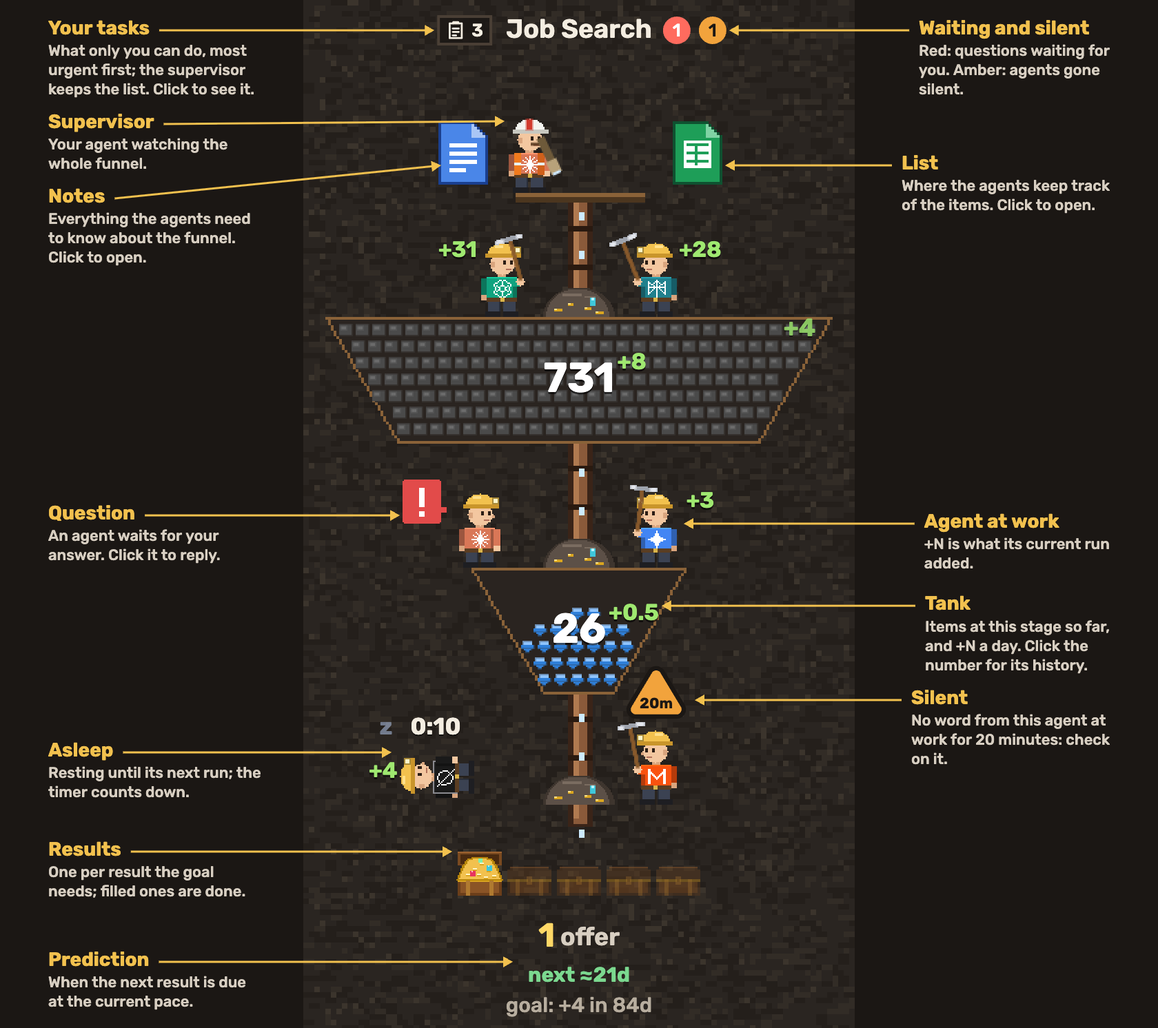
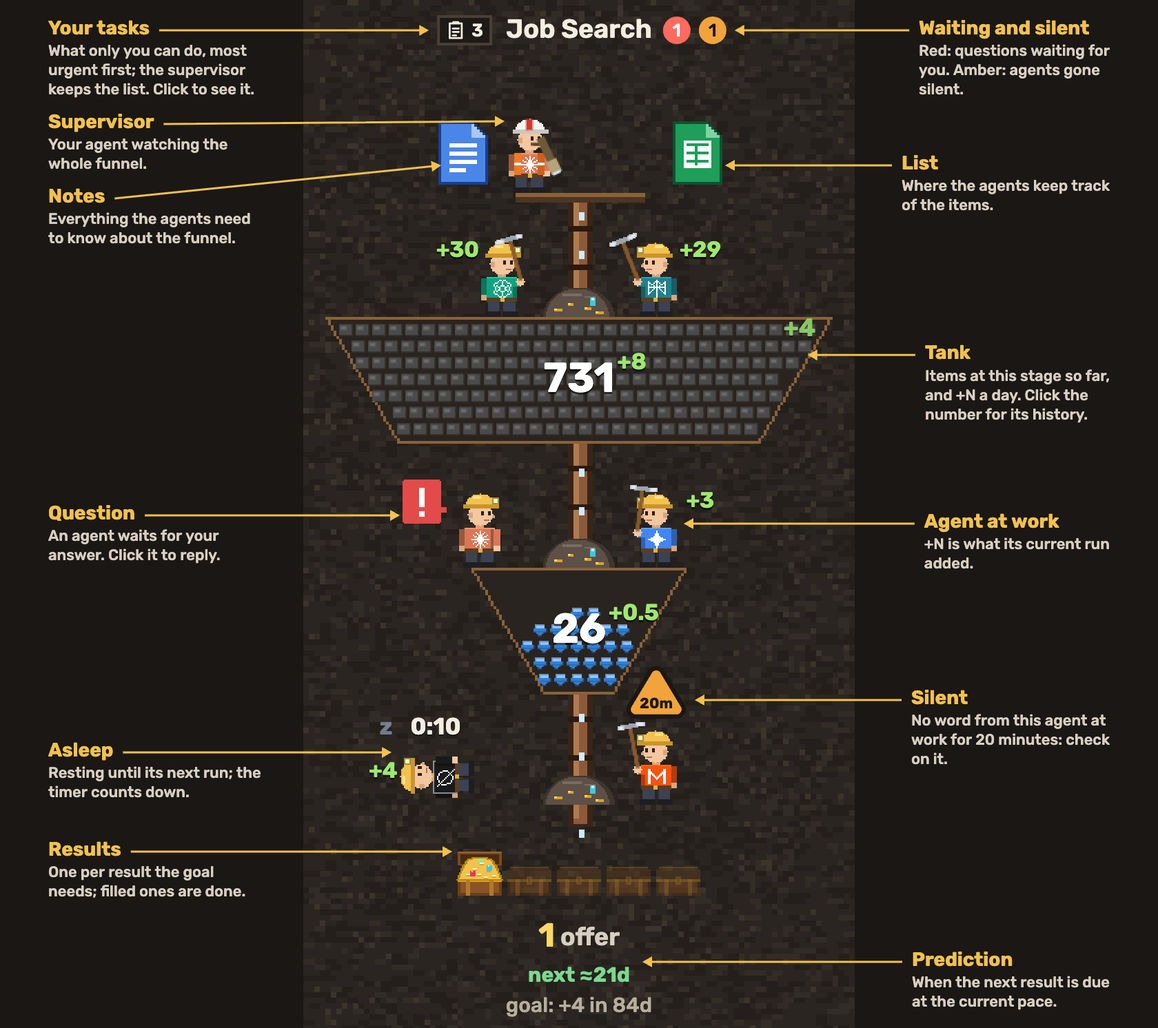
Explained funnel: the top labels' text under their headings and arrows short of the badges; tank (first one) and prediction on the right; notes and list without 'click to open'; the landing picture larger, wider than the text

diff --git a/src/i18n.js b/src/i18n.js
@@ -6,12 +6,12 @@
 // Static pages mark text with data-i18n="key" (text), data-i18n-html="key" (text with links) and
 // data-i18n-attr="placeholder:key; title:key"; scripts call t(key, …args).
 
-import es from './lang/es.js?v=44d6396f';
-import vi from './lang/vi.js?v=44d6396f';
-import ja from './lang/ja.js?v=44d6396f';
-import pt from './lang/pt.js?v=44d6396f';
-import tr from './lang/tr.js?v=44d6396f';
-import ko from './lang/ko.js?v=44d6396f';
+import es from './lang/es.js?v=9415e8eb';
+import vi from './lang/vi.js?v=9415e8eb';
+import ja from './lang/ja.js?v=9415e8eb';
+import pt from './lang/pt.js?v=9415e8eb';
+import tr from './lang/tr.js?v=9415e8eb';
+import ko from './lang/ko.js?v=9415e8eb';
 
 export const LANGS = { en: 'English', ru: 'Русский', es: 'Español', pt: 'Português', zh: '中文', ja: '日本語', ko: '한국어', tr: 'Türkçe', th: 'ไทย', vi: 'Tiếng Việt' };
 export const SHORT = { en: 'EN', ru: 'RU', es: 'ES', pt: 'PT', zh: '中文', ja: 'JA', ko: 'KO', tr: 'TR', th: 'ไทย', vi: 'VI' };
@@ -123,17 +123,17 @@ const STRINGS = {
 
   // The landing page's funnel: what each part is
   'guide.tasks.h': L('Your tasks', 'Ваши дела', '你的待办', 'งานของคุณ'),
-  'guide.tasks': L('What only you can do, most urgent first; the supervisor keeps the list. Click to see it.', 'То, что можете сделать только вы, от самого срочного; список ведёт супервайзер. Нажмите, чтобы посмотреть.', '只有你能做的事，最紧急的在前；清单由主管维护。点击查看。', 'สิ่งที่มีแค่คุณทำได้ เรียงจากเร่งด่วนที่สุด ผู้ดูแลเป็นคนดูแลรายการ คลิกเพื่อดู'),
+  'guide.tasks': L('What only you can do, most urgent first.', 'Что можете сделать только вы, по срочности.', '只有你能做的事，按紧急程度排列。', 'สิ่งที่มีแค่คุณทำได้ เรียงตามความเร่งด่วน'),
   'guide.notes.h': L('Notes', 'Заметки', '笔记', 'โน้ต'),
-  'guide.notes': L('Everything the agents need to know about the funnel. Click to open.', 'Всё, что агентам нужно знать о воронке. Нажмите, чтобы открыть.', '智能体需要知道的关于漏斗的一切。点击打开。', 'ทุกอย่างที่เอเจนต์ต้องรู้เกี่ยวกับกรวย คลิกเพื่อเปิด'),
+  'guide.notes': L('Everything the agents need to know about the funnel.', 'Всё, что агентам нужно знать о воронке.', '智能体需要知道的关于漏斗的一切。', 'ทุกอย่างที่เอเจนต์ต้องรู้เกี่ยวกับกรวย'),
   'guide.list.h': L('List', 'Список', '清单', 'รายการ'),
-  'guide.list': L('Where the agents keep track of the items. Click to open.', 'Где агенты ведут учёт. Нажмите, чтобы открыть.', '智能体记录条目的地方。点击打开。', 'ที่ที่เอเจนต์บันทึกรายการ คลิกเพื่อเปิด'),
+  'guide.list': L('Where the agents keep track of the items.', 'Где агенты ведут учёт.', '智能体记录条目的地方。', 'ที่ที่เอเจนต์บันทึกรายการ'),
   'guide.badges.h': L('Waiting and silent', 'Ждут и молчат', '等待与失联', 'รอและเงียบ'),
-  'guide.badges': L('Red: questions waiting for you. Amber: agents gone silent.', 'Красный: вопросы, которые ждут вашего ответа. Жёлтый: агенты, которые замолчали.', '红色：等你回答的问题。黄色：失联的智能体。', 'สีแดง: คำถามที่รอคุณ สีเหลือง: เอเจนต์ที่เงียบไป'),
+  'guide.badges': L('Red: questions for you. Amber: agents gone silent.', 'Красный — вопросы к вам, жёлтый — агенты молчат.', '红色：给你的问题。黄色：失联的智能体。', 'แดง: คำถามถึงคุณ เหลือง: เอเจนต์ที่เงียบ'),
   'guide.silent.h': L('Silent', 'Молчит', '失联', 'เงียบ'),
   'guide.silent': L('No word from this agent at work for 20 minutes: check on it.', 'Агент за работой молчит уже 20 минут: проверьте его.', '这个工作中的智能体已 20 分钟没有消息：去看看它。', 'เอเจนต์ที่กำลังทำงานเงียบไป 20 นาทีแล้ว: ลองตรวจดู'),
   'guide.supervisor.h': L('Supervisor', 'Супервайзер', '主管', 'ผู้ดูแล'),
-  'guide.supervisor': L('Your agent watching the whole funnel.', 'Ваш агент, следящий за всей воронкой.', '你的智能体，盯着整个漏斗。', 'เอเจนต์ของคุณที่คอยดูทั้งกรวย'),
+  'guide.supervisor': L('Your agent over the whole funnel.', 'Ваш агент над всей воронкой.', '统管整个漏斗的你的智能体。', 'เอเจนต์ของคุณที่ดูแลทั้งกรวย'),
   'guide.tank.h': L('Tank', 'Бак', '储罐', 'ถัง'),
   'guide.tank': L('Items at this stage so far, and +N a day. Click the number for its history.', 'Сколько дошло до этапа и +N в день. Нажмите на число — история.', '到达这个阶段的数量和每天 +N。点击数字查看历史。', 'จำนวนที่ถึงขั้นนี้และ +N ต่อวัน คลิกตัวเลขเพื่อดูประวัติ'),
   'guide.question.h': L('Question', 'Вопрос', '问题', 'คำถาม'),

diff --git a/index.html b/index.html
@@ -23,7 +23,7 @@
   <link rel="preconnect" href="https://fonts.googleapis.com">
   <link rel="preconnect" href="https://fonts.gstatic.com" crossorigin>
   <link href="https://fonts.googleapis.com/css2?family=Tiny5&family=Rubik:wght@400;500;600;700&family=Noto+Sans+SC:wght@400;500;700&family=Noto+Sans+Thai:wght@400;500;700&family=Be+Vietnam+Pro:wght@400;500;600;700&family=Noto+Sans+JP:wght@400;500;700&family=Noto+Sans+KR:wght@400;500;700&display=swap" rel="stylesheet">
-  <link rel="stylesheet" href="site.css?v=44d6396f">
+  <link rel="stylesheet" href="site.css?v=9415e8eb">
 </head>
 <body>
   <div class="wrap">
@@ -48,18 +48,18 @@
            at its part's height (--y) with an arrow to it (--x), as fractions of the picture. -->
       <div class="guide">
         <img src="docs/img/funnel-plain.png" alt="One goal funnel of the demo" data-i18n-attr="alt:home.shotAlt" width="800" height="1368">
-        <div class="note up" style="--x:0.243;--y:0.029"><b data-i18n="guide.tasks.h">Your tasks</b><span data-i18n="guide.tasks">What only you can do, most urgent first; the supervisor keeps the list. Click to see it.</span></div>
-        <div class="note r up" style="--x:0.767;--y:0.029"><b data-i18n="guide.badges.h">Waiting and silent</b><span data-i18n="guide.badges">Red: questions waiting for you. Amber: agents gone silent.</span></div>
-        <div class="note up" style="--x:0.37;--y:0.118"><b data-i18n="guide.supervisor.h">Supervisor</b><span data-i18n="guide.supervisor">Your agent watching the whole funnel.</span></div>
-        <div class="note" style="--x:0.255;--y:0.161"><b data-i18n="guide.notes.h">Notes</b><span data-i18n="guide.notes">Everything the agents need to know about the funnel. Click to open.</span></div>
-        <div class="note r" style="--x:0.76;--y:0.161"><b data-i18n="guide.list.h">List</b><span data-i18n="guide.list">Where the agents keep track of the items. Click to open.</span></div>
+        <div class="note" style="--x:0.225;--y:0.029"><b data-i18n="guide.tasks.h">Your tasks</b><span data-i18n="guide.tasks">What only you can do, most urgent first.</span></div>
+        <div class="note r" style="--x:0.785;--y:0.029"><b data-i18n="guide.badges.h">Waiting and silent</b><span data-i18n="guide.badges">Red: questions for you. Amber: agents gone silent.</span></div>
+        <div class="note" style="--x:0.37;--y:0.118"><b data-i18n="guide.supervisor.h">Supervisor</b><span data-i18n="guide.supervisor">Your agent over the whole funnel.</span></div>
+        <div class="note" style="--x:0.255;--y:0.175"><b data-i18n="guide.notes.h">Notes</b><span data-i18n="guide.notes">Everything the agents need to know about the funnel.</span></div>
+        <div class="note r" style="--x:0.76;--y:0.161"><b data-i18n="guide.list.h">List</b><span data-i18n="guide.list">Where the agents keep track of the items.</span></div>
         <div class="note" style="--x:0.18;--y:0.501"><b data-i18n="guide.question.h">Question</b><span data-i18n="guide.question">An agent waits for your answer. Click it to reply.</span></div>
         <div class="note r" style="--x:0.685;--y:0.509"><b data-i18n="guide.work.h">Agent at work</b><span data-i18n="guide.work">+N is what its current run added.</span></div>
-        <div class="note r" style="--x:0.645;--y:0.589"><b data-i18n="guide.tank.h">Tank</b><span data-i18n="guide.tank">Items at this stage so far, and +N a day. Click the number for its history.</span></div>
+        <div class="note r" style="--x:0.91;--y:0.345"><b data-i18n="guide.tank.h">Tank</b><span data-i18n="guide.tank">Items at this stage so far, and +N a day. Click the number for its history.</span></div>
         <div class="note r" style="--x:0.705;--y:0.681"><b data-i18n="guide.silent.h">Silent</b><span data-i18n="guide.silent">No word from this agent at work for 20 minutes: check on it.</span></div>
         <div class="note" style="--x:0.165;--y:0.732"><b data-i18n="guide.asleep.h">Asleep</b><span data-i18n="guide.asleep">Resting until its next run; the timer counts down.</span></div>
         <div class="note" style="--x:0.275;--y:0.828"><b data-i18n="guide.results.h">Results</b><span data-i18n="guide.results">One per result the goal needs; filled ones are done.</span></div>
-        <div class="note" style="--x:0.385;--y:0.936"><b data-i18n="guide.prediction.h">Prediction</b><span data-i18n="guide.prediction">When the next result is due at the current pace.</span></div>
+        <div class="note r" style="--x:0.61;--y:0.936"><b data-i18n="guide.prediction.h">Prediction</b><span data-i18n="guide.prediction">When the next result is due at the current pace.</span></div>
       </div>
     </section>
 
@@ -83,7 +83,7 @@
       <span><a href="https://github.com/oponfil/goalcraft/blob/main/docs/MCP.md" target="_blank" rel="noopener" data-i18n="footer.docs">Docs</a> · <a href="deck/" target="_blank" rel="noopener" data-i18n="footer.deck">Pitch deck</a> · <a href="privacy/" data-i18n="footer.privacy">Privacy</a> · <a href="terms/" data-i18n="footer.terms">Terms</a> · <a href="contact/" data-i18n="footer.contact">Contact</a> · <a class="gh" href="https://github.com/oponfil/goalcraft" target="_blank" rel="noopener" aria-label="GitHub" title="GitHub"><svg viewBox="0 0 16 16" width="16" height="16" aria-hidden="true"><path fill="currentColor" d="M8 0C3.58 0 0 3.58 0 8c0 3.54 2.29 6.53 5.47 7.59.4.07.55-.17.55-.38 0-.19-.01-.82-.01-1.49-2.01.37-2.53-.49-2.69-.94-.09-.23-.48-.94-.82-1.13-.28-.15-.68-.52-.01-.53.63-.01 1.08.58 1.23.82.72 1.21 1.87.87 2.33.66.07-.52.28-.87.51-1.07-1.78-.2-3.64-.89-3.64-3.95 0-.87.31-1.59.82-2.15-.08-.2-.36-1.02.08-2.12 0 0 .67-.21 2.2.82.64-.18 1.32-.27 2-.27.68 0 1.36.09 2 .27 1.53-1.04 2.2-.82 2.2-.82.44 1.1.16 1.92.08 2.12.51.56.82 1.27.82 2.15 0 3.07-1.87 3.75-3.65 3.95.29.25.54.73.54 1.48 0 1.07-.01 1.93-.01 2.2 0 .21.15.46.55.38A8.013 8.013 0 0016 8c0-4.42-3.58-8-8-8z"/></svg></a></span>
     </footer>
   </div>
-  <script type="module" src="src/nav.js?v=44d6396f"></script>
-  <script type="module" src="src/guide-live.js?v=44d6396f"></script>
+  <script type="module" src="src/nav.js?v=9415e8eb"></script>
+  <script type="module" src="src/guide-live.js?v=9415e8eb"></script>
 </body>
 </html>

diff --git a/tools/render-docs.js b/tools/render-docs.js
@@ -1,12 +1,12 @@
 // Renders the README pictures (agents sheet, theme samples, the board) and the link preview card from the same drawing code as
 // the dashboard and saves them through serve.py: open http://localhost:5173/tools/render-docs.html
 // (always in English: the page adds ?lang=en to itself).
-import { AGENTS, FUNNELS } from '../src/data.js?v=44d6396f';
-import { Scene, CW, drawWork, TOOL_PERIOD } from '../src/scene.js?v=44d6396f';
-import { guideScene, guideHeight, drawGuide, TH } from '../src/guide.js?v=44d6396f';
+import { AGENTS, FUNNELS } from '../src/data.js?v=9415e8eb';
+import { Scene, CW, drawWork, TOOL_PERIOD } from '../src/scene.js?v=9415e8eb';
+import { guideScene, guideHeight, drawGuide, TH } from '../src/guide.js?v=9415e8eb';
 import { GIFEncoder, quantize, applyPalette } from 'https://cdn.jsdelivr.net/npm/gifenc@1.0.3/dist/gifenc.esm.js';
-import { THEMES } from '../src/themes.js?v=44d6396f';
-import { drawStanding, drawPickaxe, drawShears, drawBeaker, drawBow, drawArrow, drawLaptop, drawStamp, drawHammer, drawSword, drawRollingPin } from '../src/sprites.js?v=44d6396f';
+import { THEMES } from '../src/themes.js?v=9415e8eb';
+import { drawStanding, drawPickaxe, drawShears, drawBeaker, drawBow, drawArrow, drawLaptop, drawStamp, drawHammer, drawSword, drawRollingPin } from '../src/sprites.js?v=9415e8eb';
 
 const FONT = 'Rubik, system-ui, sans-serif';
 
@@ -226,19 +226,19 @@ function funnelGuide({ labels = true, scene = null, show = true } = {}) {
   // [point, side, heading, text]: a left label's arrow ends on the left edge of what it explains, a
   // right one's on the right edge.
   const notes = [
-    ...(drawn.tasks ? [[[left + drawn.tasks.x, drawn.tasks.y + drawn.tasks.h / 2], 'L', 'Your tasks', 'What only you can do, most urgent first; the supervisor keeps the list. Click to see it.']] : []),
-    ...(drawn.badges ? [[[left + drawn.badges.x + drawn.badges.w, drawn.badges.y + drawn.badges.h / 2], 'R', 'Waiting and silent', 'Red: questions waiting for you. Amber: agents gone silent.']] : []),
+    ...(drawn.tasks ? [[[left + drawn.tasks.x - 8, drawn.tasks.y + drawn.tasks.h / 2], 'L', 'Your tasks', 'What only you can do, most urgent first; the supervisor keeps the list. Click to see it.']] : []),
+    ...(drawn.badges ? [[[left + drawn.badges.x + drawn.badges.w + 8, drawn.badges.y + drawn.badges.h / 2], 'R', 'Waiting and silent', 'Red: questions waiting for you. Amber: agents gone silent.']] : []),
     [P(sup.x + 2, sup.y + 2), 'L', 'Supervisor', 'Your agent watching the whole funnel.'],
-    [P(doc0.x + 3, doc0.y + 18), 'L', 'Notes', 'Everything the agents need to know about the funnel. Click to open.'],
-    [P(src0.x + src0.w - 3, src0.y + 18), 'R', 'List', 'Where the agents keep track of the items. Click to open.'],
+    [P(doc0.x + 3, doc0.y + 18), 'L', 'Notes', 'Everything the agents need to know about the funnel.'],
+    [P(src0.x + src0.w - 3, src0.y + 18), 'R', 'List', 'Where the agents keep track of the items.'],
     [P(work.x + 19, work.y + 12), 'R', 'Agent at work', '+N is what its current run added.'],
-    [P(cx + s1.w / 2 - slope * s1.h * 0.3 - 2, s1.y + s1.h * 0.3), 'R', 'Tank', 'Items at this stage so far, and +N a day. Click the number for its history.'],
+    [P(cx + s0.w / 2 - slope * s0.h * 0.3 - 2, s0.y + s0.h * 0.3), 'R', 'Tank', 'Items at this stage so far, and +N a day. Click the number for its history.'],
     // The bubble bobs; the arrow points where it rests, so the label stays still.
     [P(ask.bubble.x, scene.spot(ask, 'ask').y - 2 + 11), 'L', 'Question', 'An agent waits for your answer. Click it to reply.'],
     [P(late.x + 23, late.y - 10), 'R', 'Silent', 'No word from this agent at work for 20 minutes: check on it.'],
     [P(sleep.x - 1, sleep.y + 1), 'L', 'Asleep', 'Resting until its next run; the timer counts down.'],
     [P(cx - 45, resultsY + 8), 'L', 'Results', 'One per result the goal needs; filled ones are done.'],
-    [P(cx - 23, resultsY + 48), 'L', 'Prediction', 'When the next result is due at the current pace.'],
+    [P(cx + 22, resultsY + 48), 'R', 'Prediction', 'When the next result is due at the current pace.'],
   ].map(([pt, sd, head, text]) => [pt, head, text, sd]);
   // The landing page's labels point at the same places: each as a fraction of the funnel picture.
   if (!labels) {

diff --git a/pricing/index.html b/pricing/index.html
@@ -23,7 +23,7 @@
   <link rel="preconnect" href="https://fonts.googleapis.com">
   <link rel="preconnect" href="https://fonts.gstatic.com" crossorigin>
   <link href="https://fonts.googleapis.com/css2?family=Tiny5&family=Rubik:wght@400;500;600;700&family=Noto+Sans+SC:wght@400;500;700&family=Noto+Sans+Thai:wght@400;500;700&family=Be+Vietnam+Pro:wght@400;500;600;700&family=Noto+Sans+JP:wght@400;500;700&family=Noto+Sans+KR:wght@400;500;700&display=swap" rel="stylesheet">
-  <link rel="stylesheet" href="../site.css?v=44d6396f">
+  <link rel="stylesheet" href="../site.css?v=9415e8eb">
 </head>
 <body>
   <div class="wrap">
@@ -80,7 +80,7 @@
       <span><a href="https://github.com/oponfil/goalcraft/blob/main/docs/MCP.md" target="_blank" rel="noopener" data-i18n="footer.docs">Docs</a> · <a href="../deck/" target="_blank" rel="noopener" data-i18n="footer.deck">Pitch deck</a> · <a href="../privacy/" data-i18n="footer.privacy">Privacy</a> · <a href="../terms/" data-i18n="footer.terms">Terms</a> · <a href="../contact/" data-i18n="footer.contact">Contact</a> · <a class="gh" href="https://github.com/oponfil/goalcraft" target="_blank" rel="noopener" aria-label="GitHub" title="GitHub"><svg viewBox="0 0 16 16" width="16" height="16" aria-hidden="true"><path fill="currentColor" d="M8 0C3.58 0 0 3.58 0 8c0 3.54 2.29 6.53 5.47 7.59.4.07.55-.17.55-.38 0-.19-.01-.82-.01-1.49-2.01.37-2.53-.49-2.69-.94-.09-.23-.48-.94-.82-1.13-.28-.15-.68-.52-.01-.53.63-.01 1.08.58 1.23.82.72 1.21 1.87.87 2.33.66.07-.52.28-.87.51-1.07-1.78-.2-3.64-.89-3.64-3.95 0-.87.31-1.59.82-2.15-.08-.2-.36-1.02.08-2.12 0 0 .67-.21 2.2.82.64-.18 1.32-.27 2-.27.68 0 1.36.09 2 .27 1.53-1.04 2.2-.82 2.2-.82.44 1.1.16 1.92.08 2.12.51.56.82 1.27.82 2.15 0 3.07-1.87 3.75-3.65 3.95.29.25.54.73.54 1.48 0 1.07-.01 1.93-.01 2.2 0 .21.15.46.55.38A8.013 8.013 0 0016 8c0-4.42-3.58-8-8-8z"/></svg></a></span>
     </footer>
   </div>
-  <script type="module" src="../src/nav.js?v=44d6396f"></script>
-  <script type="module" src="../src/pricing.js?v=44d6396f"></script>
+  <script type="module" src="../src/nav.js?v=9415e8eb"></script>
+  <script type="module" src="../src/pricing.js?v=9415e8eb"></script>
 </body>
 </html>

diff --git a/app/index.html b/app/index.html
@@ -12,7 +12,7 @@
   <link rel="preconnect" href="https://fonts.googleapis.com">
   <link rel="preconnect" href="https://fonts.gstatic.com" crossorigin>
   <link href="https://fonts.googleapis.com/css2?family=Tiny5&family=Rubik:wght@400;500;600;700&family=Noto+Sans+SC:wght@400;500;700&family=Noto+Sans+Thai:wght@400;500;700&family=Be+Vietnam+Pro:wght@400;500;600;700&family=Noto+Sans+JP:wght@400;500;700&family=Noto+Sans+KR:wght@400;500;700&display=swap" rel="stylesheet">
-  <link rel="stylesheet" href="../dashboard.css?v=44d6396f">
+  <link rel="stylesheet" href="../dashboard.css?v=9415e8eb">
 </head>
 <body>
   <nav class="sitebar">
@@ -40,12 +40,12 @@
   <div id="pop" hidden></div>
 
   <script type="module">
-    import { supabase } from '../src/auth.js?v=44d6396f';
-    import { setUpConnect } from '../src/connect.js?v=44d6396f';
-    import { loadFunnels, answer, sendMessage, watch, runs, closeReplies, history as stageHistory } from '../src/live.js?v=44d6396f';
-    import { mountDashboard } from '../src/dashboard.js?v=44d6396f';
-    import { account } from '../src/billing.js?v=44d6396f';
-    import { t, fmtDuration, lang } from '../src/i18n.js?v=44d6396f';
+    import { supabase } from '../src/auth.js?v=9415e8eb';
+    import { setUpConnect } from '../src/connect.js?v=9415e8eb';
+    import { loadFunnels, answer, sendMessage, watch, runs, closeReplies, history as stageHistory } from '../src/live.js?v=9415e8eb';
+    import { mountDashboard } from '../src/dashboard.js?v=9415e8eb';
+    import { account } from '../src/billing.js?v=9415e8eb';
+    import { t, fmtDuration, lang } from '../src/i18n.js?v=9415e8eb';
 
     // Coming back from an email link, supabase-js reads the session from the URL.
     const { data: { session } } = await supabase.auth.getSession();
@@ -125,6 +125,6 @@
       document.addEventListener('focusout', () => { if (pending) refresh(); });
     }
   </script>
-  <script type="module" src="../src/nav.js?v=44d6396f"></script>
+  <script type="module" src="../src/nav.js?v=9415e8eb"></script>
 </body>
 </html>

diff --git a/contact/index.html b/contact/index.html
@@ -23,7 +23,7 @@
   <link rel="preconnect" href="https://fonts.googleapis.com">
   <link rel="preconnect" href="https://fonts.gstatic.com" crossorigin>
   <link href="https://fonts.googleapis.com/css2?family=Tiny5&family=Rubik:wght@400;500;600;700&family=Noto+Sans+SC:wght@400;500;700&family=Noto+Sans+Thai:wght@400;500;700&family=Be+Vietnam+Pro:wght@400;500;600;700&family=Noto+Sans+JP:wght@400;500;700&family=Noto+Sans+KR:wght@400;500;700&display=swap" rel="stylesheet">
-  <link rel="stylesheet" href="../site.css?v=44d6396f">
+  <link rel="stylesheet" href="../site.css?v=9415e8eb">
 </head>
 <body>
   <div class="wrap">
@@ -52,6 +52,6 @@
       <span><a href="https://github.com/oponfil/goalcraft/blob/main/docs/MCP.md" target="_blank" rel="noopener" data-i18n="footer.docs">Docs</a> · <a href="../deck/" target="_blank" rel="noopener" data-i18n="footer.deck">Pitch deck</a> · <a href="../privacy/" data-i18n="footer.privacy">Privacy</a> · <a href="../terms/" data-i18n="footer.terms">Terms</a> · <a href="../contact/" data-i18n="footer.contact">Contact</a> · <a class="gh" href="https://github.com/oponfil/goalcraft" target="_blank" rel="noopener" aria-label="GitHub" title="GitHub"><svg viewBox="0 0 16 16" width="16" height="16" aria-hidden="true"><path fill="currentColor" d="M8 0C3.58 0 0 3.58 0 8c0 3.54 2.29 6.53 5.47 7.59.4.07.55-.17.55-.38 0-.19-.01-.82-.01-1.49-2.01.37-2.53-.49-2.69-.94-.09-.23-.48-.94-.82-1.13-.28-.15-.68-.52-.01-.53.63-.01 1.08.58 1.23.82.72 1.21 1.87.87 2.33.66.07-.52.28-.87.51-1.07-1.78-.2-3.64-.89-3.64-3.95 0-.87.31-1.59.82-2.15-.08-.2-.36-1.02.08-2.12 0 0 .67-.21 2.2.82.64-.18 1.32-.27 2-.27.68 0 1.36.09 2 .27 1.53-1.04 2.2-.82 2.2-.82.44 1.1.16 1.92.08 2.12.51.56.82 1.27.82 2.15 0 3.07-1.87 3.75-3.65 3.95.29.25.54.73.54 1.48 0 1.07-.01 1.93-.01 2.2 0 .21.15.46.55.38A8.013 8.013 0 0016 8c0-4.42-3.58-8-8-8z"/></svg></a></span>
     </footer>
   </div>
-  <script type="module" src="../src/nav.js?v=44d6396f"></script>
+  <script type="module" src="../src/nav.js?v=9415e8eb"></script>
 </body>
 </html>

diff --git a/privacy/index.html b/privacy/index.html
@@ -23,7 +23,7 @@
   <link rel="preconnect" href="https://fonts.googleapis.com">
   <link rel="preconnect" href="https://fonts.gstatic.com" crossorigin>
   <link href="https://fonts.googleapis.com/css2?family=Tiny5&family=Rubik:wght@400;500;600;700&family=Noto+Sans+SC:wght@400;500;700&family=Noto+Sans+Thai:wght@400;500;700&family=Be+Vietnam+Pro:wght@400;500;600;700&family=Noto+Sans+JP:wght@400;500;700&family=Noto+Sans+KR:wght@400;500;700&display=swap" rel="stylesheet">
-  <link rel="stylesheet" href="../site.css?v=44d6396f">
+  <link rel="stylesheet" href="../site.css?v=9415e8eb">
 </head>
 <body>
   <div class="wrap">
@@ -61,6 +61,6 @@
       <span><a href="https://github.com/oponfil/goalcraft/blob/main/docs/MCP.md" target="_blank" rel="noopener" data-i18n="footer.docs">Docs</a> · <a href="../deck/" target="_blank" rel="noopener" data-i18n="footer.deck">Pitch deck</a> · <a href="../privacy/" data-i18n="footer.privacy">Privacy</a> · <a href="../terms/" data-i18n="footer.terms">Terms</a> · <a href="../contact/" data-i18n="footer.contact">Contact</a> · <a class="gh" href="https://github.com/oponfil/goalcraft" target="_blank" rel="noopener" aria-label="GitHub" title="GitHub"><svg viewBox="0 0 16 16" width="16" height="16" aria-hidden="true"><path fill="currentColor" d="M8 0C3.58 0 0 3.58 0 8c0 3.54 2.29 6.53 5.47 7.59.4.07.55-.17.55-.38 0-.19-.01-.82-.01-1.49-2.01.37-2.53-.49-2.69-.94-.09-.23-.48-.94-.82-1.13-.28-.15-.68-.52-.01-.53.63-.01 1.08.58 1.23.82.72 1.21 1.87.87 2.33.66.07-.52.28-.87.51-1.07-1.78-.2-3.64-.89-3.64-3.95 0-.87.31-1.59.82-2.15-.08-.2-.36-1.02.08-2.12 0 0 .67-.21 2.2.82.64-.18 1.32-.27 2-.27.68 0 1.36.09 2 .27 1.53-1.04 2.2-.82 2.2-.82.44 1.1.16 1.92.08 2.12.51.56.82 1.27.82 2.15 0 3.07-1.87 3.75-3.65 3.95.29.25.54.73.54 1.48 0 1.07-.01 1.93-.01 2.2 0 .21.15.46.55.38A8.013 8.013 0 0016 8c0-4.42-3.58-8-8-8z"/></svg></a></span>
     </footer>
   </div>
-  <script type="module" src="../src/nav.js?v=44d6396f"></script>
+  <script type="module" src="../src/nav.js?v=9415e8eb"></script>
 </body>
 </html>

diff --git a/terms/index.html b/terms/index.html
@@ -23,7 +23,7 @@
   <link rel="preconnect" href="https://fonts.googleapis.com">
   <link rel="preconnect" href="https://fonts.gstatic.com" crossorigin>
   <link href="https://fonts.googleapis.com/css2?family=Tiny5&family=Rubik:wght@400;500;600;700&family=Noto+Sans+SC:wght@400;500;700&family=Noto+Sans+Thai:wght@400;500;700&family=Be+Vietnam+Pro:wght@400;500;600;700&family=Noto+Sans+JP:wght@400;500;700&family=Noto+Sans+KR:wght@400;500;700&display=swap" rel="stylesheet">
-  <link rel="stylesheet" href="../site.css?v=44d6396f">
+  <link rel="stylesheet" href="../site.css?v=9415e8eb">
 </head>
 <body>
   <div class="wrap">
@@ -71,6 +71,6 @@
       <span><a href="https://github.com/oponfil/goalcraft/blob/main/docs/MCP.md" target="_blank" rel="noopener" data-i18n="footer.docs">Docs</a> · <a href="../deck/" target="_blank" rel="noopener" data-i18n="footer.deck">Pitch deck</a> · <a href="../privacy/" data-i18n="footer.privacy">Privacy</a> · <a href="../terms/" data-i18n="footer.terms">Terms</a> · <a href="../contact/" data-i18n="footer.contact">Contact</a> · <a class="gh" href="https://github.com/oponfil/goalcraft" target="_blank" rel="noopener" aria-label="GitHub" title="GitHub"><svg viewBox="0 0 16 16" width="16" height="16" aria-hidden="true"><path fill="currentColor" d="M8 0C3.58 0 0 3.58 0 8c0 3.54 2.29 6.53 5.47 7.59.4.07.55-.17.55-.38 0-.19-.01-.82-.01-1.49-2.01.37-2.53-.49-2.69-.94-.09-.23-.48-.94-.82-1.13-.28-.15-.68-.52-.01-.53.63-.01 1.08.58 1.23.82.72 1.21 1.87.87 2.33.66.07-.52.28-.87.51-1.07-1.78-.2-3.64-.89-3.64-3.95 0-.87.31-1.59.82-2.15-.08-.2-.36-1.02.08-2.12 0 0 .67-.21 2.2.82.64-.18 1.32-.27 2-.27.68 0 1.36.09 2 .27 1.53-1.04 2.2-.82 2.2-.82.44 1.1.16 1.92.08 2.12.51.56.82 1.27.82 2.15 0 3.07-1.87 3.75-3.65 3.95.29.25.54.73.54 1.48 0 1.07-.01 1.93-.01 2.2 0 .21.15.46.55.38A8.013 8.013 0 0016 8c0-4.42-3.58-8-8-8z"/></svg></a></span>
     </footer>
   </div>
-  <script type="module" src="../src/nav.js?v=44d6396f"></script>
+  <script type="module" src="../src/nav.js?v=9415e8eb"></script>
 </body>
 </html>

diff --git a/site.css b/site.css
@@ -35,9 +35,9 @@ h1 { font-size: clamp(32px, 6vw, 52px); line-height: 1.12; margin: 0 auto 18px; 
 .btn:disabled { opacity: 0.5; cursor: wait; }
 .shot { display: block; margin: 40px auto 0; width: 100%; border: 2px solid var(--border); image-rendering: pixelated; }
 /* The landing page's funnel with labels: the picture in the middle, each label beside it at its part's
-   height with a straight arrow to it, on the left or (.r) on the right. On a phone the labels follow
-   the picture as a list. */
-.guide { --img: 460px; --side: calc(50% - var(--img) / 2); position: relative; margin: 40px auto 0; max-width: 1240px; }
+   height with a straight arrow to it, on the left or (.r) on the right; wider than the page's text,
+   for room beside it. On a phone the labels follow the picture as a list. */
+.guide { --img: min(560px, 44vw); --side: calc(50% - var(--img) / 2); position: relative; width: min(1240px, calc(100vw - 32px)); margin: 40px 0 0 calc(50% - min(620px, 50vw - 16px)); }
 .guide img, .guide canvas.live { display: block; width: var(--img); height: auto; margin: 0 auto; border: 2px solid var(--border); }
 .guide .note { position: absolute; top: calc(var(--y) * 100%); right: calc(var(--side) + var(--img) + 28px); width: calc(var(--side) - 40px); transform: translateY(-13px); text-align: right; font-size: 15px; line-height: 1.35; color: var(--muted); }
 .guide .note b { display: block; color: var(--accent); font-size: 19px; line-height: 1.35; }
@@ -52,7 +52,7 @@ h1 { font-size: clamp(32px, 6vw, 52px); line-height: 1.12; margin: 0 auto 18px; 
 .guide .note.up::after { top: auto; bottom: 12px; }
 .guide .note.up::before { top: auto; bottom: 6px; }
 @media (max-width: 720px) {
-  .guide { --img: 100%; }
+  .guide { --img: 100%; width: auto; margin: 40px auto 0; }
   .guide img, .guide canvas.live { margin: 0 auto 16px; max-width: 360px; }
   .guide .note { position: static; width: auto; transform: none; text-align: left; margin: 0 0 12px; }
   .guide .note.up { display: block; transform: none; }

diff --git a/src/lang/ja.js b/src/lang/ja.js
@@ -41,17 +41,17 @@ export default {
   'home.p3': 'あなたが必要になると、エージェントは手を挙げます。スマホから返事をすれば、また仕事に戻ります。',
 
   'guide.notes.h': 'メモ',
-  'guide.notes': 'エージェントがファネルについて知るべきことすべて。クリックで開く。',
+  'guide.notes': 'エージェントがファネルについて知るべきことすべて。',
   'guide.list.h': 'リスト',
-  'guide.list': 'エージェントが項目を記録する場所。クリックで開く。',
+  'guide.list': 'エージェントが項目を記録する場所。',
   'guide.badges.h': '待ちと沈黙',
-  'guide.badges': '赤：あなたの答えを待つ質問。黄：連絡が途絶えたエージェント。',
+  'guide.badges': '赤：あなたへの質問。黄：沈黙したエージェント。',
   'guide.silent.h': '沈黙',
   'guide.silent': '作業中のこのエージェントから20分連絡がありません。様子を見てください。',
   'guide.tasks.h': 'あなたのタスク',
-  'guide.tasks': 'あなたにしかできないこと。急ぐものから順に並び、スーパーバイザーが管理します。クリックで表示。',
+  'guide.tasks': 'あなたにしかできないこと。急ぐ順に。',
   'guide.supervisor.h': '監督',
-  'guide.supervisor': 'ファネル全体を見守るあなたのエージェント。',
+  'guide.supervisor': 'ファネル全体を見るあなたのエージェント。',
   'guide.tank.h': 'タンク',
   'guide.tank': 'この段階まで来た数と1日あたりの +N。数字をクリックで履歴。',
   'guide.question.h': '質問',

diff --git a/src/lang/vi.js b/src/lang/vi.js
@@ -41,17 +41,17 @@ export default {
   'home.p3': 'Khi cần bạn, tác tử sẽ giơ tay. Trả lời từ điện thoại và nó quay lại làm việc.',
 
   'guide.notes.h': 'Ghi chú',
-  'guide.notes': 'Mọi điều tác tử cần biết về phễu. Nhấp để mở.',
+  'guide.notes': 'Mọi điều tác tử cần biết về phễu.',
   'guide.list.h': 'Danh sách',
-  'guide.list': 'Nơi tác tử theo dõi các mục. Nhấp để mở.',
+  'guide.list': 'Nơi tác tử theo dõi các mục.',
   'guide.badges.h': 'Đang chờ và im lặng',
-  'guide.badges': 'Đỏ: câu hỏi đang chờ bạn. Vàng: tác tử đã im lặng.',
+  'guide.badges': 'Đỏ: câu hỏi cho bạn. Vàng: tác tử im lặng.',
   'guide.silent.h': 'Im lặng',
   'guide.silent': 'Tác tử đang làm việc này đã im lặng 20 phút: hãy kiểm tra.',
   'guide.tasks.h': 'Việc của bạn',
-  'guide.tasks': 'Những việc chỉ bạn làm được, việc gấp nhất trước; người giám sát quản lý danh sách. Nhấp để xem.',
+  'guide.tasks': 'Việc chỉ bạn làm được, theo mức khẩn cấp.',
   'guide.supervisor.h': 'Giám sát',
-  'guide.supervisor': 'Tác tử của bạn theo dõi toàn bộ phễu.',
+  'guide.supervisor': 'Tác tử của bạn trông cả phễu.',
   'guide.tank.h': 'Bể',
   'guide.tank': 'Số đã đến giai đoạn này và +N mỗi ngày. Nhấp vào số để xem lịch sử.',
   'guide.question.h': 'Câu hỏi',

diff --git a/src/lang/ko.js b/src/lang/ko.js
@@ -40,17 +40,17 @@ export default {
   'home.p3': '에이전트가 당신이 필요하면 손을 듭니다. 휴대폰으로 답하면 다시 일하러 갑니다.',
 
   'guide.notes.h': '메모',
-  'guide.notes': '에이전트가 퍼널에 대해 알아야 할 모든 것. 클릭해서 열기.',
+  'guide.notes': '에이전트가 퍼널에 대해 알아야 할 모든 것.',
   'guide.list.h': '목록',
-  'guide.list': '에이전트가 항목을 기록하는 곳. 클릭해서 열기.',
+  'guide.list': '에이전트가 항목을 기록하는 곳.',
   'guide.badges.h': '대기와 무응답',
-  'guide.badges': '빨강: 답을 기다리는 질문. 주황: 연락이 끊긴 에이전트.',
+  'guide.badges': '빨강: 나에게 온 질문. 주황: 조용해진 에이전트.',
   'guide.silent.h': '무응답',
   'guide.silent': '작업 중인 이 에이전트가 20분째 소식이 없어요. 확인해 보세요.',
   'guide.tasks.h': '내 할 일',
-  'guide.tasks': '나만 할 수 있는 일, 급한 순서대로. 목록은 슈퍼바이저가 관리해요. 클릭해서 보세요.',
+  'guide.tasks': '나만 할 수 있는 일, 급한 순서로.',
   'guide.supervisor.h': '슈퍼바이저',
-  'guide.supervisor': '퍼널 전체를 지켜보는 당신의 에이전트.',
+  'guide.supervisor': '퍼널 전체를 보는 내 에이전트.',
   'guide.tank.h': '탱크',
   'guide.tank': '이 단계에 도달한 수와 하루 +N. 숫자를 클릭하면 기록.',
   'guide.question.h': '질문',
